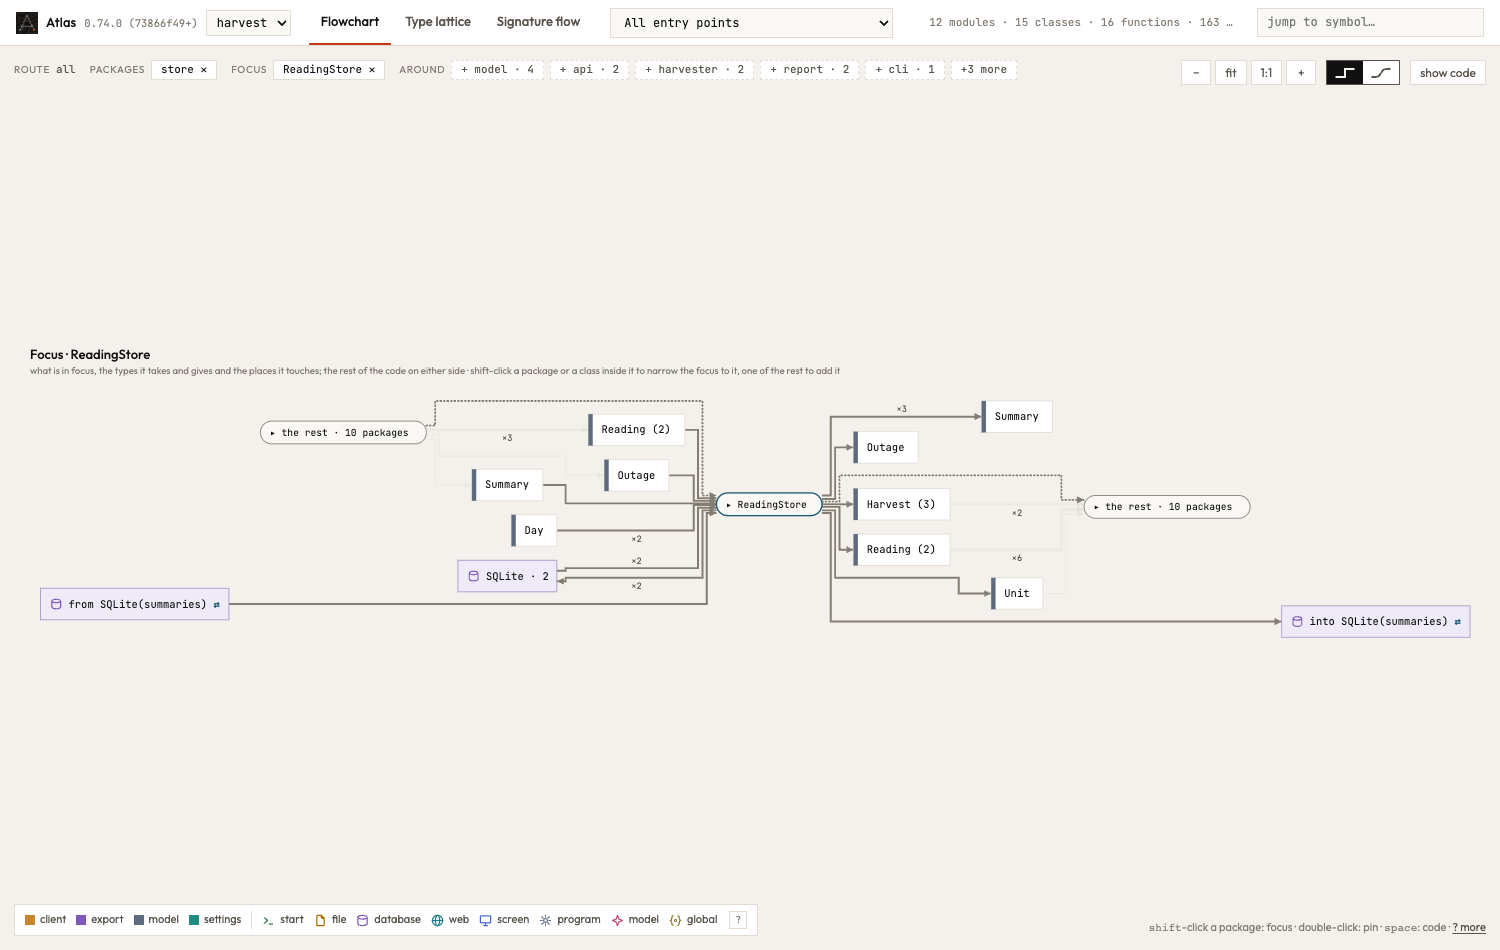
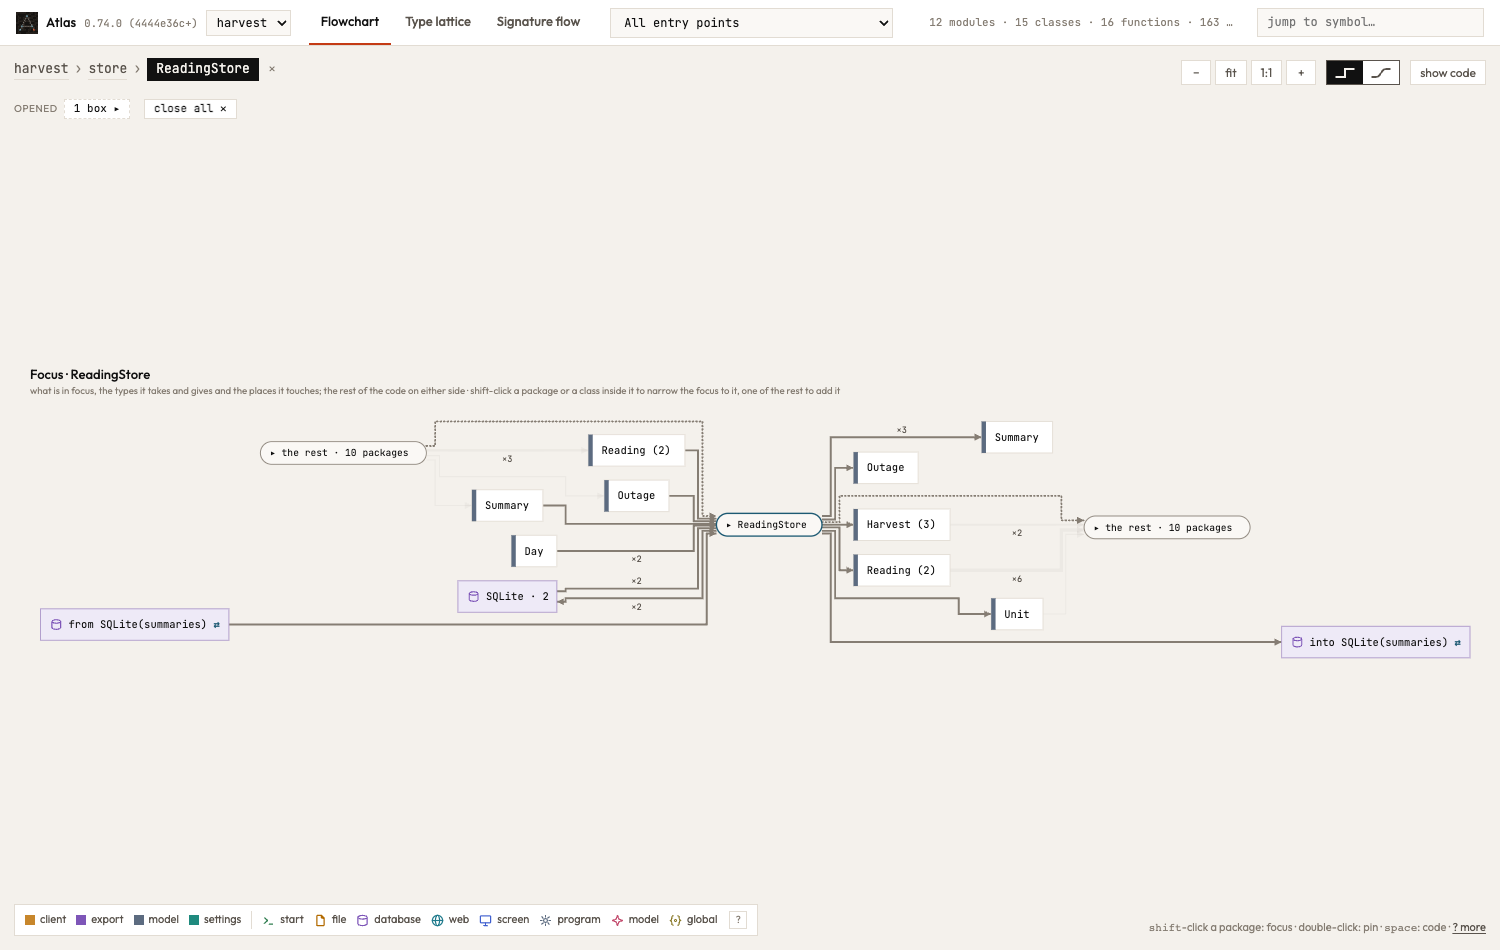
Errors counted on the box in the overview and a focus; the bar is a path and switches (#469)

diff --git a/viewer/index.html b/viewer/index.html
@@ -122,7 +122,19 @@ svg#canvas:active{cursor:grabbing}
 #fault b{display:block;color:var(--ink);font-weight:600;margin-bottom:2px}
 #fault pre{font-family:var(--mono);font-size:11px;color:var(--ink);white-space:pre-wrap;word-break:break-word;margin:8px 0;max-height:180px;overflow:auto}
 #fault button{font:inherit;font-size:11px;color:var(--ink-2);background:var(--panel-2);border:1px solid var(--line);border-radius:3px;padding:2px 8px;cursor:pointer}
-#crumbs{position:absolute;left:14px;top:14px;right:200px;display:flex;flex-wrap:wrap;gap:5px 6px;align-items:center;font-size:11px;color:var(--ink-3)}
+#crumbs{position:absolute;left:14px;top:12px;right:340px;display:flex;flex-direction:column;gap:6px;font-size:11px;color:var(--ink-3)}
+#crumbs .path,#crumbs .folds{display:flex;flex-wrap:wrap;gap:5px 6px;align-items:center}
+#crumbs .path{font-family:var(--mono);font-size:13px}
+#crumbs .path .sep{color:var(--ink-3)}
+#crumbs .path button.step{border:0;border-bottom:1px solid var(--line);background:none;padding:1px 0;font-size:13px;color:var(--ink-2)}
+#crumbs .path button.step:hover{color:var(--ink);border-color:var(--ink)}
+#crumbs .path .here{background:var(--ink);color:var(--bg);border:0;padding:2px 9px;font-size:13px;font-family:var(--mono)}
+#crumbs .path button.up{border:0;background:none;color:var(--ink-3);padding:1px 4px}
+#crumbs button.fold{border-radius:11px;color:var(--ink-3);background:none}
+#crumbs button.fold::before{content:"○ ";font-size:9px}
+#crumbs button.fold.on{background:var(--panel);color:var(--ink)}
+#crumbs button.fold.on::before{content:"● ";color:var(--accent,var(--ink))}
+#crumbs button.count{border-style:dashed}
 #crumbs .lbl{letter-spacing:.06em;text-transform:uppercase;font-size:10px;margin-left:8px}
 #crumbs .lbl:first-child{margin-left:0}
 #crumbs .none{font-family:var(--mono);color:var(--ink-2)}
@@ -1844,95 +1856,89 @@ async function renderPlaat(mine) {
   window.atlasBoxes = nodeEls;
   window.atlasPicture = {n: (window.atlasPicture?.n || 0) + 1, planned: root, dropped, oracle: oracle || [], sides: [...roleAt], boxes: [...nodeEls.keys()].map(id => [id, parentOf.get(id) || "root"]), lines: edgeEls.map(e => [e.a, e.b]), folders: [...places.values()].filter(p => p.folded && nodeEls.has(p.id)).map(p => [p.id, p.folded])};
 }
-// what the picture is a function of, each part undoable: the route, the opened steps, the open families, the split world boxes
+// What the picture is a function of, in the order it is made in. The first line is the fiber, where the reader is: the
+// program, then the part, the routes of a kind, the route or the focus, each step of the path a way back to it. The second
+// is the quotient: what is folded, each fold a switch, and how much is opened, with the list of it on request.
+let crumbsOpened = false;
 function crumbs() {
   const C = document.getElementById("crumbs"); C.innerHTML = "";
   const show = view === "plaat";
   C.style.display = show ? "" : "none";
   if (!show) return;
-  const lbl = t => C.appendChild(html("span", "lbl", t));
-  const chip = (text, undo) => { const b = html("button", null, text + " ✕"); b.title = "undo"; b.onclick = () => { undo(); render(); }; C.appendChild(b); };
-  lbl("route");
-  if (V.part) chip(`Only ${V.part}`, () => { V.part = null; if (!V.route) entrySel.value = ""; });
-  if (V.kind) chip(`All ${KIND_LABEL[V.kind]}`, () => { V.kind = null; if (!V.route) entrySel.value = ""; });
-  if (V.route) chip(entryTitle(V.route), () => { V.route = null; entrySel.value = V.kind ? "kind:" + V.kind : ""; V.open.steps.clear(); });
-  if (!V.kind && !V.route && !V.part) C.appendChild(html("span", "none", entries.length ? "all" : "none"));
-  // the overview, and the focus that is its fiber, is the program without its test code, a fiber the reader can let go of;
-  // shown where there is test code
-  if (!V.route && !V.kind && OWN.some(n => has(n) && testCode(n))) {
-    lbl("code");
-    const b = html("button", V.tests ? "add" : null, V.tests ? "+ without test code" : "without test code ✕");
-    b.title = V.tests ? "leave the test code out: the program alone" : "draw the test code too: tests, test modules and what they touch";
-    b.onclick = () => { V.tests = !V.tests; plaatFit = true; render(); };
-    C.appendChild(b);
+  const path = C.appendChild(html("div", "path")), folds = C.appendChild(html("div", "folds"));
+  const again = act => () => { act(); plaatFit = true; render(); };
+  const home = () => { V.route = null; V.kind = null; V.part = null; V.focus.clear(); V.open.steps.clear(); entrySel.value = ""; };
+  const steps = [[D.root, "the whole program by package", home]];
+  if (V.part) steps.push([`only ${V.part}`, "this part alone", () => { V.route = null; V.kind = null; V.focus.clear(); entrySel.value = "part:" + V.part; }]);
+  if (V.kind) steps.push([`all ${KIND_LABEL[V.kind]} routes`, "every route of this kind", () => { V.route = null; V.open.steps.clear(); entrySel.value = "kind:" + V.kind; }]);
+  if (V.route) steps.push([entryTitle(V.route), "this route", () => {}]);
+  const focus = !V.route && !V.kind ? [...V.focus].sort() : [];
+  if (focus.length === 1) {
+    for (const u of [...(FOCUS.above.get(focus[0]) || [])].reverse()) steps.push([unitLabel(u), `focus on ${unitLabel(u)}`, () => { V.focus = new Set([u]); }]);
+    steps.push([unitLabel(focus[0]), "in focus", () => {}]);
   }
-  // a route's errors are counted on the steps that hand them on, a fold the reader can let go of; shown where there are errors
-  if ((V.route || V.kind) && !DIFF && pictureErrors.length) {
-    lbl("errors");
-    const b = html("button", V.errors ? "add" : null, V.errors ? "+ counted on the step" : `${pictureErrors.length} counted on the step ✕`);
-    b.title = V.errors ? "count the errors a step hands on, on the step: " + pictureErrors.join(", ") : "draw each error a step hands on as a box: " + pictureErrors.join(", ");
-    b.onclick = () => { V.errors = !V.errors; render(); };
-    C.appendChild(b);
+  steps.forEach(([text, title, act], i) => {
+    if (i) path.appendChild(html("span", "sep", "›"));
+    const last = i === steps.length - 1 && focus.length < 2, b = path.appendChild(html(last ? "span" : "button", last ? "here" : "step", text));
+    b.title = title; if (!last) b.onclick = again(act);
+  });
+  if (focus.length > 1) {
+    path.appendChild(html("span", "sep", "›"));
+    focus.forEach((u, i) => { if (i) path.appendChild(html("span", "sep", "+")); const b = path.appendChild(html("button", "here", unitLabel(u) + " ✕")); b.title = "let go of it: the focus on the others"; b.onclick = again(() => V.focus.delete(u)); });
   }
-  // what a step runs on is said by its name, a fold the reader can let go of; shown where the picture has such a step
-  if ((V.route || V.kind) && !DIFF && (V.receivers || pictureRuns)) {
-    lbl("runs on");
-    const b = html("button", V.receivers ? "add" : null, V.receivers ? "+ said by name" : "said by name ✕");
-    b.title = V.receivers ? "name a step by the value it runs on (model.forward), without a line from that value" : "draw a line from each value to the steps that run on it";
-    b.onclick = () => { V.receivers = !V.receivers; render(); };
-    C.appendChild(b);
-  }
-  if (view === "plaat" && pinned.size) { lbl("pinned"); chip(`${pinned.size} ${pinned.size === 1 ? "box" : "boxes"}`, () => pinned.clear()); }
-  if (lit) { lbl("lit"); chip(`values of ${typeLabel(lit.pick)}${lit.drawn === 0 ? " · none here" : ""}`, () => { lit = null; }); }
-  if (V.open.parts.size && !V.route) { lbl("parts"); for (const p of V.open.parts) chip(p, () => V.open.parts.delete(p)); }
-  const opened = u => u === REST ? "the rest" : unitLabel(u);
-  if (V.open.units.size && !V.route && !V.kind) { lbl("packages"); for (const u of V.open.units) chip(opened(u), () => V.open.units.delete(u)); }
+  if (steps.length > 1 || focus.length > 1) { const b = path.appendChild(html("button", "up", "✕")); b.title = "back to the whole program"; b.onclick = again(home); }
+  const lbl = t => folds.appendChild(html("span", "lbl", t));
+  const chip = (text, undo) => { const b = html("button", null, text + " ✕"); b.title = "undo"; b.onclick = () => { undo(); render(); }; folds.appendChild(b); };
+  // a fold: on, the picture is drawn without it or with it counted; off, it is drawn
+  const fold = (text, on, title, flip) => { const b = folds.appendChild(html("button", "fold" + (on ? " on" : ""), text)); b.title = title; b.setAttribute("aria-pressed", on); b.onclick = again(flip); };
+  lbl("folded");
+  // the overview, and the focus that is its fiber, is the program without its test code; shown where there is test code
+  if (!V.route && !V.kind && OWN.some(n => has(n) && testCode(n)))
+    fold("tests", !V.tests, V.tests ? "leave the test code out: the program alone" : "draw the test code too: tests, test modules and what they touch", () => { V.tests = !V.tests; });
+  // errors that are only handed on are counted on the box that hands them on; shown where there are errors
+  if (!DIFF && pictureErrors.length)
+    fold(`errors · ${pictureErrors.length}`, !V.errors, V.errors ? "count the errors a box hands on, on the box: " + pictureErrors.join(", ") : "draw each error a box hands on as a box: " + pictureErrors.join(", "), () => { V.errors = !V.errors; });
+  // what a step runs on is said by its name; shown where the picture has such a step
+  if ((V.route || V.kind) && !DIFF && (V.receivers || pictureRuns))
+    fold("runs on, by name", !V.receivers, V.receivers ? "name a step by the value it runs on (model.forward), without a line from that value" : "draw a line from each value to the steps that run on it", () => { V.receivers = !V.receivers; });
+  if (V.focus.size && !V.route && !V.kind) for (const L of V.closed.libraries) fold(L, true, "open this library into its types", () => V.closed.libraries.delete(L));
   // a package of modules is opened by module or by base class: two quotients of the same functions, the reader's to pick
-  if (!V.route && !V.kind && view === "plaat") {
-    const nested = u => !isRest(u) && [...byId.values()].some(n => n.kind === "module" && !n.library && n.id.startsWith(u + "."));
-    const us = [...new Set([...V.focus, ...V.open.units, ...V.open.flat])].filter(u => V.open.flat.has(u) || nested(u));
-    if (us.length) lbl("grouped");
-    for (const u of us) {
-      const flat = V.open.flat.has(u), b = html("button", flat ? null : "add", flat ? `${unitLabel(u)} by base class ✕` : `+ ${unitLabel(u)} by base class`);
-      b.title = flat ? "group this package by module again" : "group this package's functions by the base class they keep the promise of, whatever file they are written in";
-      b.onclick = () => { if (flat) V.open.flat.delete(u); else V.open.flat.add(u); plaatFit = true; render(); };
-      C.appendChild(b);
+  if (!V.route && !V.kind) {
+    const nested = u => !isRest(u) && !/^(cls|fam):/.test(u) && [...byId.values()].some(n => n.kind === "module" && !n.library && n.id.startsWith(u + "."));
+    for (const u of [...new Set([...V.focus, ...V.open.units, ...V.open.flat])].filter(u => V.open.flat.has(u) || nested(u))) {
+      const flat = V.open.flat.has(u);
+      fold(`${unitLabel(u)} by base class`, flat, flat ? "group this package by module again" : "group this package's functions by the base class they keep the promise of, whatever file they are written in", () => { if (flat) V.open.flat.delete(u); else V.open.flat.add(u); });
     }
-    const blocks = [...[...V.open.bases].map(k => ["fam:" + k, V.open.bases, k]), ...[...V.open.classes].map(k => ["cls:" + k, V.open.classes, k])].filter(([step]) => BLOCK_TITLE.has(step));
-    if (blocks.length) lbl("classes");
-    for (const [step, set, k] of blocks) chip(BLOCK_TITLE.get(step), () => set.delete(k));
   }
-  // an opened entry shows how its command line is parsed; any other opened place is split
-  const openEntries = [...V.open.places].filter(r => r.startsWith("e:") && byId.get(r.slice(2))?.entry), split = [...V.open.places].filter(r => !r.startsWith("e:"));
-  const entryFamilies = V.kind && !V.route ? [...V.open.places].filter(r => r === "e:~" + V.kind) : [];
-  if (V.open.steps.size || V.open.functions.size || openEntries.length || entryFamilies.length) {
+  if (folds.children.length === 1) folds.lastChild.remove();
+  if (pinned.size) { lbl("pinned"); chip(`${pinned.size} ${pinned.size === 1 ? "box" : "boxes"}`, () => pinned.clear()); }
+  if (lit) { lbl("lit"); chip(`values of ${typeLabel(lit.pick)}${lit.drawn === 0 ? " · none here" : ""}`, () => { lit = null; }); }
+  // what is opened stands in the picture, each box with its own way to close; here it is counted, and listed on request
+  const opened = [], open = (set, k, text) => opened.push([text, () => set.delete(k)]);
+  const unit = u => (u === REST ? "the rest" : unitLabel(u));
+  if (!V.route) for (const p of V.open.parts) open(V.open.parts, p, p);
+  if (!V.route && !V.kind) {
+    for (const u of V.open.units) open(V.open.units, u, unit(u));
+    for (const [step, set, k] of [...[...V.open.bases].map(k => ["fam:" + k, V.open.bases, k]), ...[...V.open.classes].map(k => ["cls:" + k, V.open.classes, k])]) if (BLOCK_TITLE.has(step)) open(set, k, BLOCK_TITLE.get(step));
+  }
+  for (const r of V.open.places) {
+    if (r.startsWith("e:~")) { if (V.kind && !V.route && r === "e:~" + V.kind) open(V.open.places, r, `each ${KIND_LABEL[V.kind] || V.kind} route's entry`); }
+    else if (r.startsWith("e:")) { if (byId.get(r.slice(2))?.entry) open(V.open.places, r, `${entryTitle(r.slice(2))} · its parse`); }
+    else open(V.open.places, r, r.startsWith("w:~") ? r.slice(3).replace(/~(in|out|mid|both)$/, (_, side) => ({in: " read", out: " written"})[side] || "") : r.slice(2));
+  }
+  for (const id of V.open.steps) { const info = treeInfo.get(id), n = byId.get(stepOf(id)), name = n?.name || short(stepOf(id)); open(V.open.steps, id, info?.on && n?.cls ? `${typeLabel(info.on)}.${name}` : name); }
+  for (const f of V.open.functions) open(V.open.functions, f, `every ${byId.get(f)?.name || short(f)}`);
+  for (const f of V.open.families) open(V.open.families, f, typeLabel(f));
+  for (const d of V.open.dirs) open(V.open.dirs, d, d);
+  if (opened.length) {
     lbl("opened");
-    for (const r of entryFamilies) chip(`each ${KIND_LABEL[V.kind] || V.kind} route's entry`, () => V.open.places.delete(r));
-    for (const r of openEntries) chip(`${entryTitle(r.slice(2))} · its parse`, () => V.open.places.delete(r));
-    for (const id of V.open.steps) { const info = treeInfo.get(id), n = byId.get(stepOf(id)), name = n?.name || short(stepOf(id)); chip(info?.on && n?.cls ? `${typeLabel(info.on)}.${name}` : name, () => V.open.steps.delete(id)); }
-    for (const f of V.open.functions) chip(`every ${byId.get(f)?.name || short(f)}`, () => V.open.functions.delete(f));
-  }
-  if (V.open.families.size) { lbl("opened types"); for (const f of V.open.families) chip(typeLabel(f), () => V.open.families.delete(f)); }
-  if (split.length) { lbl("split"); for (const r of split) chip(r.startsWith("w:~") ? r.slice(3).replace(/~(in|out|mid|both)$/, (_, s) => ({in: " read", out: " written"})[s] || "") : r.slice(2), () => V.open.places.delete(r)); }
-  if (V.open.dirs.size) { lbl("folders"); for (const d of V.open.dirs) chip(d, () => V.open.dirs.delete(d)); }
-  if (V.closed.libraries.size && V.focus.size && !V.route && !V.kind) { lbl("closed libraries"); for (const L of V.closed.libraries) chip(L, () => V.closed.libraries.delete(L)); }
-  if (V.focus.size && view === "plaat") {
-    lbl("focus"); for (const u of V.focus) chip(unitLabel(u), () => V.focus.delete(u));
-    // around the focus: the packages it exchanges the most data with, to add with a click
-    const add = (text, title, act) => { const b = html("button", "add", text); b.title = title; b.onclick = () => { act(); plaatFit = true; render(); }; C.appendChild(b); };
-    const ns = neighbours();
-    if (ns.length) lbl("around");
-    for (const {u, n} of ns.slice(0, 5)) add(`+ ${unitLabel(u)} · ${n}`, `add ${u} to the focus: ${n} ${n === 1 ? "type" : "types"} across`, () => V.focus.add(u));
-    if (ns.length > 5) add(`+${ns.length - 5} more`, "open the rest beside the focus", () => V.open.units.add(REST));
-  }
-  // one ✕ for every opened box and every pinned one: back to the coarsest zoom. The route, the
-  // filters and the focus stay: they chose what is drawn, and closing the quotient does not undo them
-  const count = Object.values(V.open).reduce((k, s) => k + s.size, 0) + pinned.size;
-  if (count > 1) {
-    const b = html("button", "all", "close all ✕");
-    b.title = "close every opened box and let go of the pinned ones; the route and the filters stay";
-    b.onclick = () => { for (const s of Object.values(V.open)) s.clear(); pinned.clear(); plaatFit = true; render(); };
-    C.appendChild(b);
+    const more = folds.appendChild(html("button", "count", `${opened.length} ${opened.length === 1 ? "box" : "boxes"} ${crumbsOpened ? "▾" : "▸"}`));
+    more.title = "list what is opened, each to close"; more.onclick = () => { crumbsOpened = !crumbsOpened; crumbs(); };
+    if (crumbsOpened) for (const [text, undo] of opened) chip(text, undo);
+    // one ✕ for every opened box and every pinned one: back to the coarsest zoom. The path and the folds stay
+    const b = folds.appendChild(html("button", "all", "close all ✕"));
+    b.title = "close every opened box and let go of the pinned ones; the path and the folds stay";
+    b.onclick = () => { for (const set of Object.values(V.open)) set.clear(); pinned.clear(); plaatFit = true; render(); };
   }
 }
 
@@ -2312,8 +2318,8 @@ async function render() {
     if (view === "plaat") { await renderPlaat(mine); } else if (view === "types") { renderTypes(); fit(); } else { await renderSig(); }
   } catch (err) { scene.node().classList.remove("busy"); fault(err); return; }
   if (mine !== renderSeq) return;
-  // the packages around a focus are a fact of its plan (`focusBase`)
-  if (view === "plaat" && V.focus.size) crumbs();
+  // the path of a focus and the folds of a picture are facts of its plan (`focusBase`, `foldErrors`)
+  if (view === "plaat") crumbs();
   legend();
   if (fitted && !userZoomed && footHeight() !== foot) fit();
   relabel();

diff --git a/viewer/plan.js b/viewer/plan.js
@@ -2901,7 +2901,9 @@ const overviewBase = () => {
   const kin = new Map(), homes = new Map();
   for (const [t, [mk, tk]] of used) { const f = block(t); if (!kin.has(f)) kin.set(f, []); kin.get(f).push(...mk, ...tk); }
   for (const [t, [mk, tk]] of used) {
-    const k = addPlace({...typePlace(t), home: undefined});
+    // a type every function that makes it hands on as an error is an error of the program: counted on those functions
+    // where none takes it (`foldErrors`)
+    const k = addPlace({...typePlace(t), home: undefined, ...(mk.length && mk.every(x => errorsOf(x).has(t)) ? {err: true} : {})});
     homes.set(k, kin.get(block(t)));
     for (const x of mk) pillOf(x).C.set(k, false);
     for (const x of tk) pillOf(x).D.set(k, false);
@@ -3228,8 +3230,8 @@ const plan = () => {
   }
   alike(C);
   window.atlasPlan = {fine: F, coarse: C, opened: view.opened};
-  const whole = view.drawn ? view.drawn(C) : C, folds = !SIDE && ["route", "kind"].includes(viewOf());
-  const counted = V.errors || !folds ? whole : foldErrors(whole), drawn = V.receivers || !folds ? counted : foldReceivers(counted);
+  const whole = view.drawn ? view.drawn(C) : C, folds = !SIDE, names = folds && ["route", "kind"].includes(viewOf());
+  const counted = V.errors || !folds ? whole : foldErrors(whole), drawn = V.receivers || !names ? counted : foldReceivers(counted);
   return {...drawn, libraries: libraryFrames(drawn.places), calling: !!F.calls, fiber: F.fiber || null};
 };
 

diff --git a/docs/reference/mathematics.md b/docs/reference/mathematics.md
@@ -242,8 +242,10 @@ is the summand `E` of every step that hands it on. Drawing each such error as a 
 counting it on the arrow is the coarser one, and it is the one a route opens at: a step that hands errors on
 carries their number (`+2 errors`), as the frame of an opened step does, and the view says how many the picture
 counts. `errors` in the view draws them as boxes. The counted picture is the drawn one less those errors:
-the same steps and frames, every other box, every other line.
-**Where.** `plan.js`: `foldErrors`, the last arrow of `plan`; the view's `errors` (`sight.rs`). Held by
+the same steps and frames, every other box, every other line. The overview and a focus count by the same
+rule on their own boxes, the types: a type that every function that makes it hands on as an error is an error
+of the program, and where no function takes it, it is counted on the packages and classes that hand it on.
+**Where.** `plan.js`: `foldErrors`, the last arrow of `plan`, and `overviewBase`, which marks such a type; the view's `errors` (`sight.rs`). Held by
 `engine/tests/plans.mjs`, `errorFaults`, which draws every view state both ways and compares them.
 
 ### The receiver is a channel of its own

diff --git a/docs/changes/469.md b/docs/changes/469.md
@@ -10,3 +10,9 @@ keep its promise. The picture is then that box with the types it takes and gives
 the code on either side, as it was for a package. A box inside the focus narrows the focus to it, so from a package one
 walks down to a module and to one class in it without the picture growing; a box of the rest is added to the focus, as
 before. Beside a class in focus, the other classes of its package stand in the rest.
+
+The bar above the picture reads in two lines. The first says where the reader is, as a path: the program, then the
+route or the focus with the packages above it, each a click back to it (`harvest › store › ReadingStore`). The second
+says what is folded, each fold a switch: the test code, the errors, what a route's steps run on, a package grouped by
+base class. What is opened is counted there, with the list on request and one button to close it all. The overview and a
+focus count their errors on the box that hands them on (`+1 error`), as a route does, and the switch `errors` draws them.
